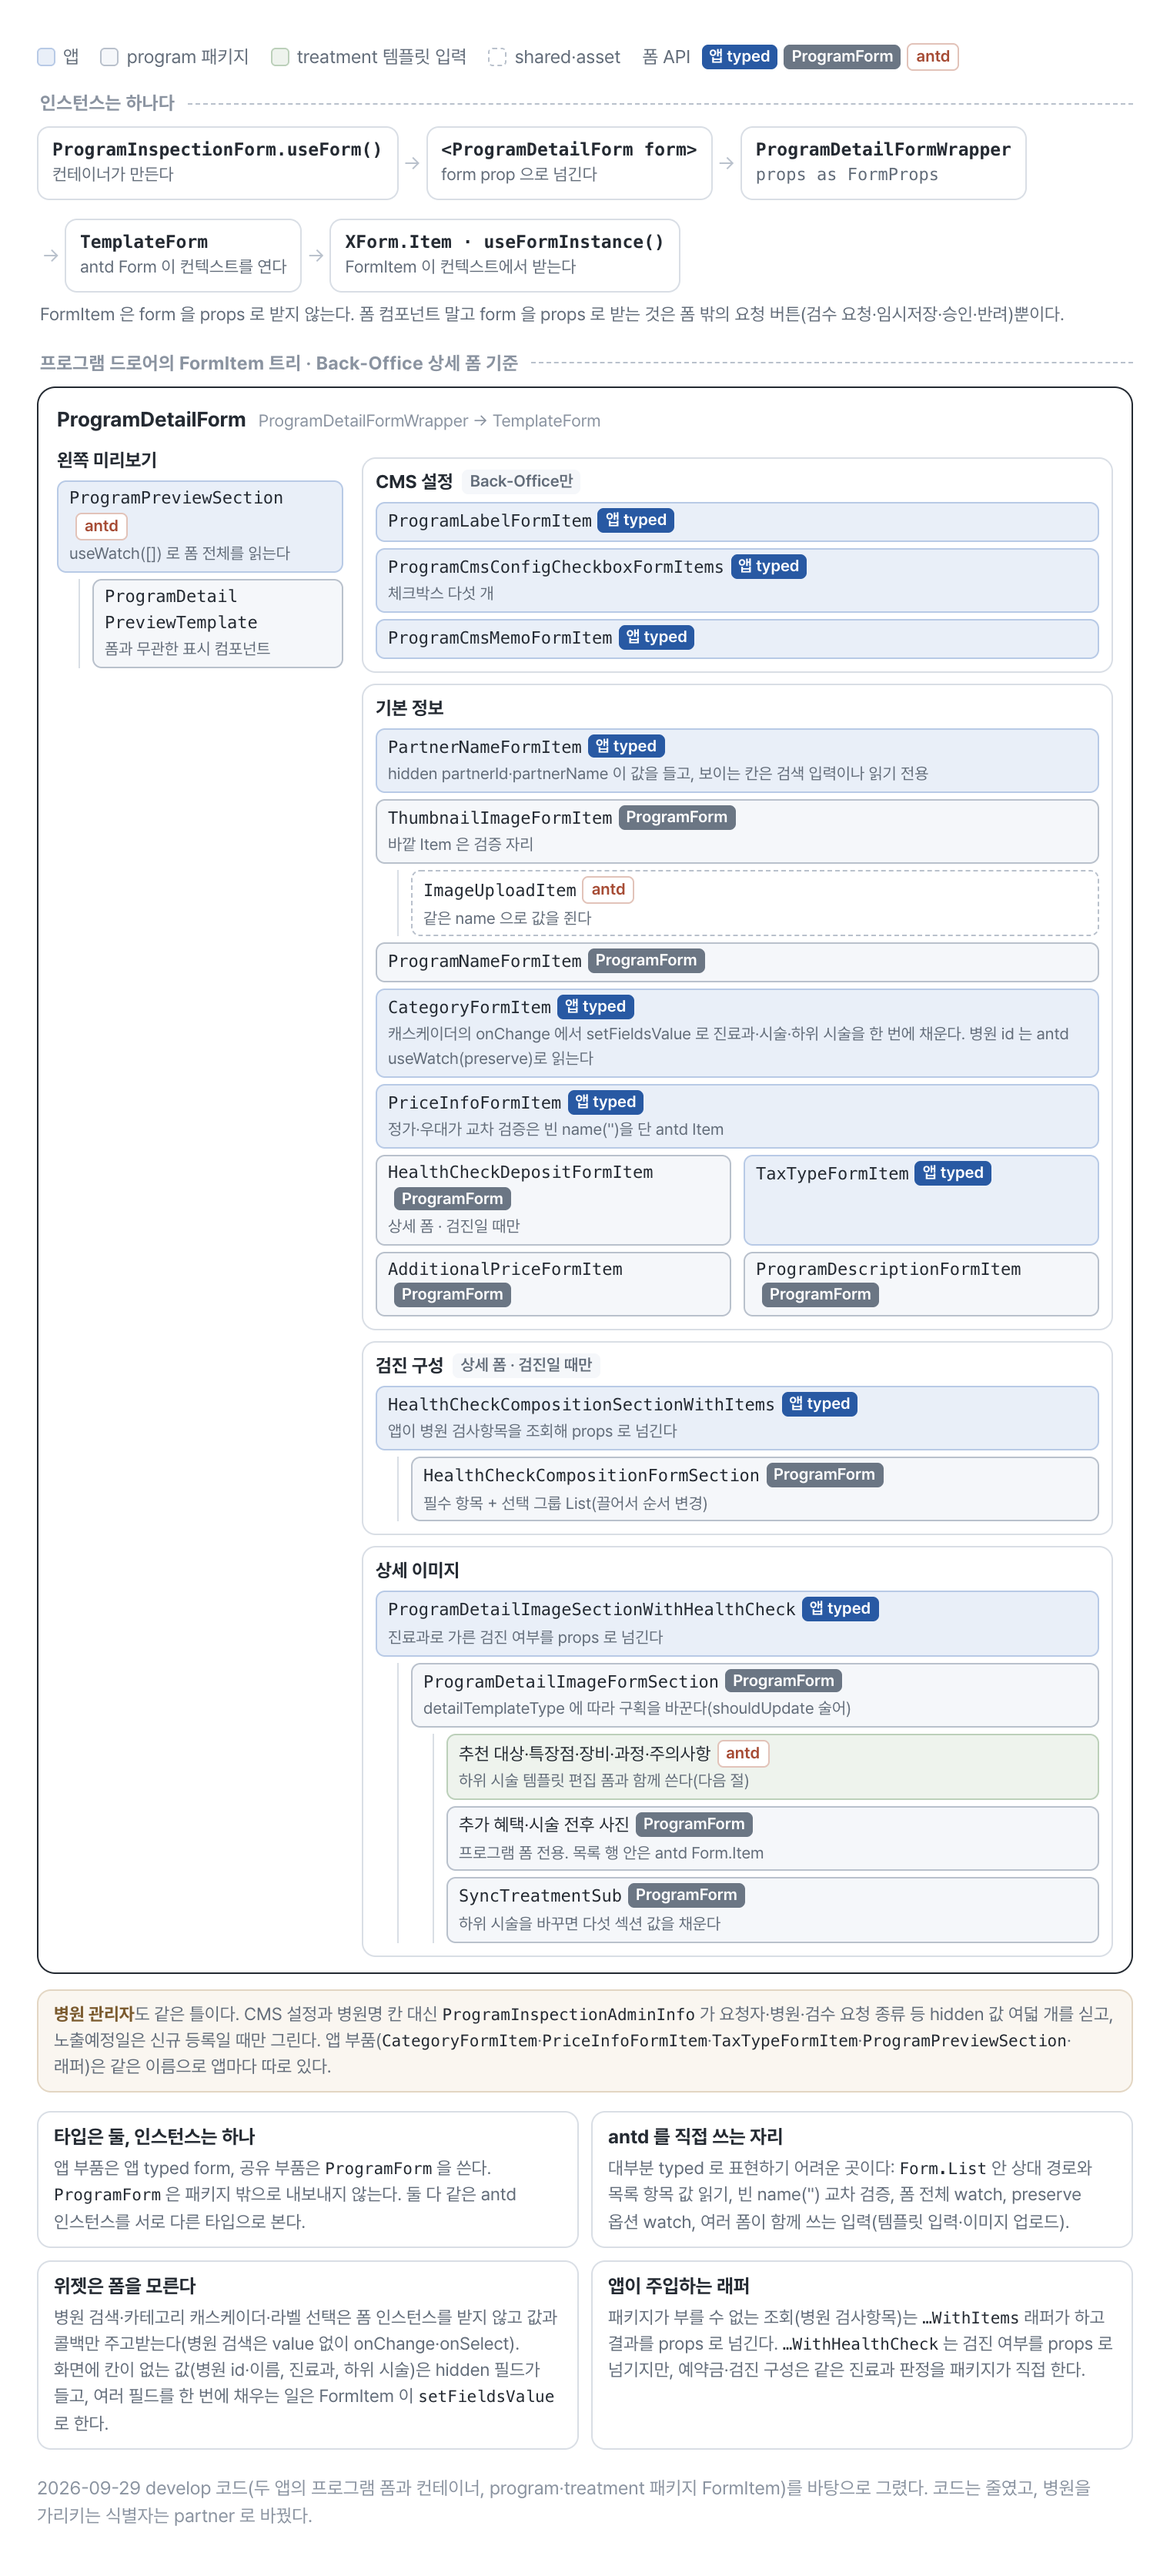
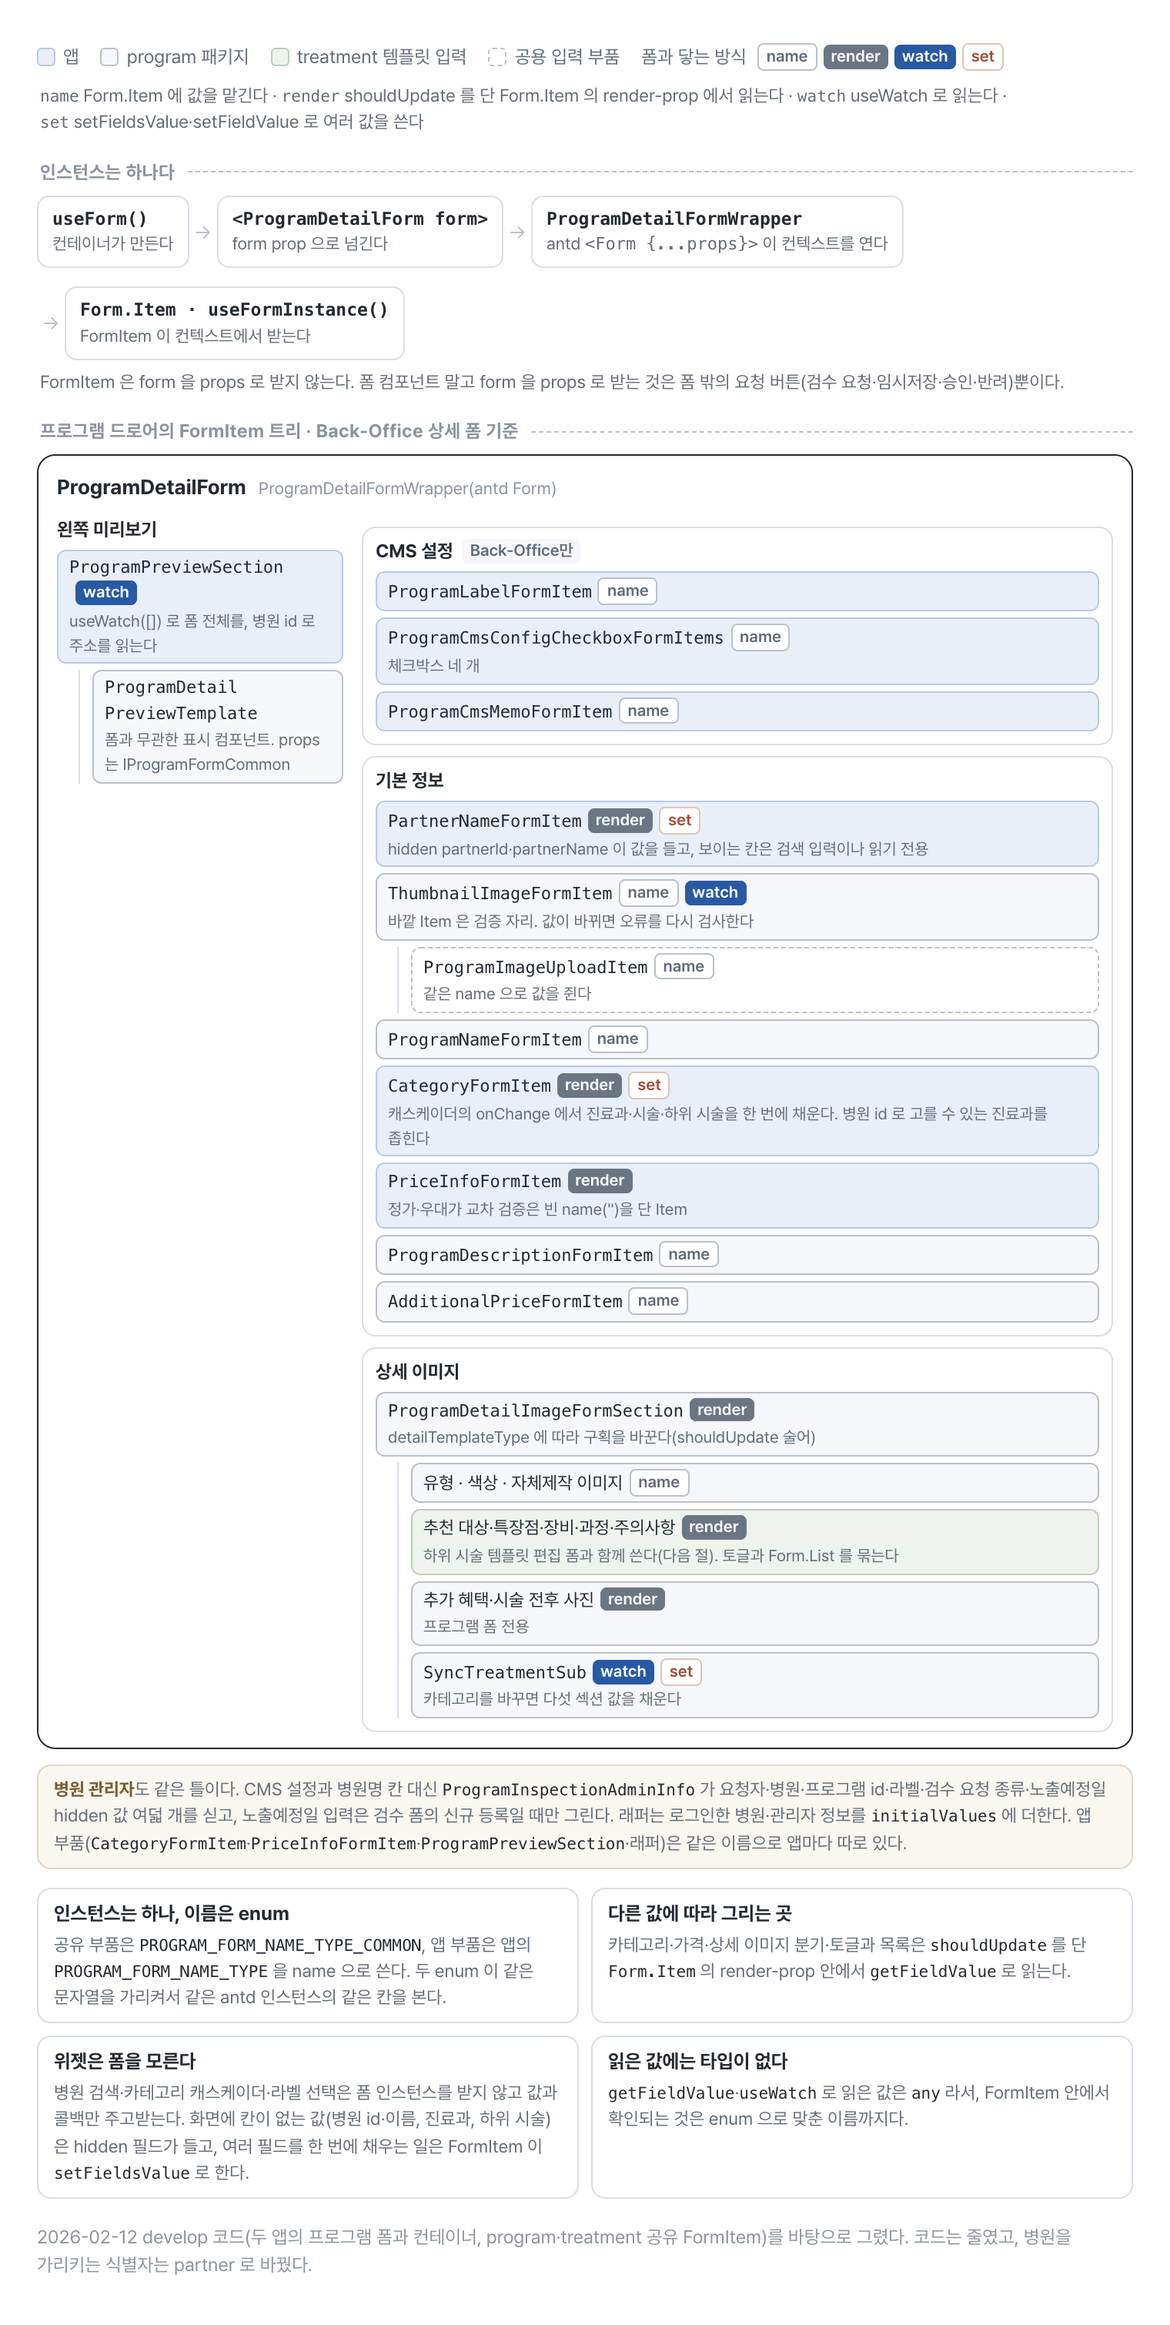
docs(blog): FormItem 설계도를 typed form 이전의 antd Form.Item 구조로 다시 그린다

Changed region(s): [[0.0309, 0.0, 0.9586, 0.996], [0.9276, 0.3113, 0.9586, 0.3424]]

diff --git a/blog/assets/figures/program-form/src/06-formitem-design.html b/blog/assets/figures/program-form/src/06-formitem-design.html
@@ -9,9 +9,10 @@
   .sw.tmpl { background: var(--sage-soft); border: 1px solid #bcd0ba; }
   .sw.shared { background: #fff; border: 1px dashed var(--line-strong); }
   .api { display: inline-block; font-size: 10.5px; font-weight: 600; padding: 0 5px; border-radius: 4px; margin-left: 4px; vertical-align: 1px; font-family: 'Pretendard', sans-serif; }
-  .api.t { background: var(--blue); color: #fff; }
-  .api.p { background: #6b7684; color: #fff; }
-  .api.a { background: #fff; color: var(--coral); border: 1px solid #e2c3b9; }
+  .api.nm { background: #fff; color: var(--sub); border: 1px solid var(--line-strong); }
+  .api.rd { background: #6b7684; color: #fff; }
+  .api.wt { background: var(--blue); color: #fff; }
+  .api.st { background: #fff; color: var(--coral); border: 1px solid #e2c3b9; }
   .zone { font-size: 12px; font-weight: 700; color: var(--faint); letter-spacing: 0.2px; margin: 0 0 6px 2px; display: flex; align-items: center; gap: 8px; }
   .zone::after { content: ''; flex: 1; border-top: 1px dashed var(--line-strong); }
   .flow { display: flex; flex-wrap: wrap; align-items: stretch; gap: 6px 0; margin-bottom: 14px; }
@@ -54,81 +55,70 @@
   <span><i class="sw lay-app"></i>앱</span>
   <span><i class="sw prog"></i>program 패키지</span>
   <span><i class="sw tmpl"></i>treatment 템플릿 입력</span>
-  <span><i class="sw shared"></i>shared·asset</span>
-  <span>폼 API <span class="api t">앱 typed</span><span class="api p">ProgramForm</span><span class="api a">antd</span></span>
+  <span><i class="sw shared"></i>공용 입력 부품</span>
+  <span>폼과 닿는 방식 <span class="api nm">name</span><span class="api rd">render</span><span class="api wt">watch</span><span class="api st">set</span></span>
 </div>
+<p class="flow-note" style="margin:-4px 0 14px 2px"><span class="nw"><code>name</code> Form.Item 에 값을 맡긴다</span> · <span class="nw"><code>render</code> shouldUpdate 를 단 Form.Item 의 render-prop 에서 읽는다</span> · <span class="nw"><code>watch</code> useWatch 로 읽는다</span> · <span class="nw"><code>set</code> setFieldsValue·setFieldValue 로 여러 값을 쓴다</span></p>
 
 <div class="zone">인스턴스는 하나다</div>
 <div class="flow">
-  <div class="st"><b>ProgramInspectionForm.useForm()</b>컨테이너가 만든다</div><div class="ar">→</div>
+  <div class="st"><b>useForm()</b>컨테이너가 만든다</div><div class="ar">→</div>
   <div class="st"><b>&lt;ProgramDetailForm form&gt;</b>form prop 으로 넘긴다</div><div class="ar">→</div>
-  <div class="st"><b>ProgramDetailFormWrapper</b><code>props as FormProps</code></div>
+  <div class="st"><b>ProgramDetailFormWrapper</b>antd <code>&lt;Form {...props}&gt;</code> 이 컨텍스트를 연다</div>
   <div class="br"></div><div class="ar">→</div>
-  <div class="st"><b>TemplateForm</b>antd Form 이 컨텍스트를 연다</div><div class="ar">→</div>
-  <div class="st"><b>XForm.Item · useFormInstance()</b>FormItem 이 컨텍스트에서 받는다</div>
+  <div class="st"><b>Form.Item · useFormInstance()</b>FormItem 이 컨텍스트에서 받는다</div>
 </div>
 <p class="flow-note">FormItem 은 form 을 props 로 받지 않는다. 폼 컴포넌트 말고 form 을 props 로 받는 것은 폼 밖의 요청 버튼(검수 요청·임시저장·승인·반려)뿐이다.</p>
 
 <div class="zone">프로그램 드로어의 FormItem 트리 · Back-Office 상세 폼 기준</div>
 <div class="drawer">
-  <div class="dh"><b>ProgramDetailForm</b><span>ProgramDetailFormWrapper → TemplateForm</span></div>
+  <div class="dh"><b>ProgramDetailForm</b><span>ProgramDetailFormWrapper(antd Form)</span></div>
   <div class="cols">
     <div>
       <div class="sec-h">왼쪽 미리보기</div>
-      <div class="n lay-app">ProgramPreviewSection<span class="api a">antd</span><span class="s">useWatch([]) 로 폼 전체를 읽는다</span></div>
-      <div class="kid"><div class="n prog">ProgramDetail<wbr>PreviewTemplate<span class="s">폼과 무관한 표시 컴포넌트</span></div></div>
+      <div class="n lay-app">ProgramPreviewSection<span class="api wt">watch</span><span class="s">useWatch([]) 로 폼 전체를, 병원 id 로 주소를 읽는다</span></div>
+      <div class="kid"><div class="n prog">ProgramDetail<wbr>PreviewTemplate<span class="s">폼과 무관한 표시 컴포넌트. props 는 IProgramFormCommon</span></div></div>
     </div>
     <div>
       <div class="sec">
         <div class="sec-h">CMS 설정 <span class="only">Back-Office만</span></div>
-        <div class="n lay-app">ProgramLabelFormItem<span class="api t">앱 typed</span></div>
-        <div class="n lay-app">ProgramCmsConfigCheckboxFormItems<span class="api t">앱 typed</span><span class="s">체크박스 다섯 개</span></div>
-        <div class="n lay-app">ProgramCmsMemoFormItem<span class="api t">앱 typed</span></div>
+        <div class="n lay-app">ProgramLabelFormItem<span class="api nm">name</span></div>
+        <div class="n lay-app">ProgramCmsConfigCheckboxFormItems<span class="api nm">name</span><span class="s">체크박스 네 개</span></div>
+        <div class="n lay-app">ProgramCmsMemoFormItem<span class="api nm">name</span></div>
       </div>
       <div class="sec">
         <div class="sec-h">기본 정보</div>
-        <div class="n lay-app">PartnerNameFormItem<span class="api t">앱 typed</span><span class="s">hidden partnerId·partnerName 이 값을 들고, 보이는 칸은 검색 입력이나 읽기 전용</span></div>
-        <div class="n prog">ThumbnailImageFormItem<span class="api p">ProgramForm</span><span class="s">바깥 Item 은 검증 자리</span></div>
-        <div class="kid"><div class="n shared">ImageUploadItem<span class="api a">antd</span><span class="s">같은 name 으로 값을 쥔다</span></div></div>
-        <div class="n prog">ProgramNameFormItem<span class="api p">ProgramForm</span></div>
-        <div class="n lay-app">CategoryFormItem<span class="api t">앱 typed</span><span class="s">캐스케이더의 onChange 에서 setFieldsValue 로 진료과·시술·하위 시술을 한 번에 채운다. 병원 id 는 antd useWatch(preserve)로 읽는다</span></div>
-        <div class="n lay-app">PriceInfoFormItem<span class="api t">앱 typed</span><span class="s">정가·우대가 교차 검증은 빈 name('')을 단 antd Item</span></div>
-        <div class="grid2">
-          <div class="n prog">HealthCheckDepositFormItem<span class="api p">ProgramForm</span><span class="s">상세 폼 · 검진일 때만</span></div>
-          <div class="n lay-app">TaxTypeFormItem<span class="api t">앱 typed</span></div>
-          <div class="n prog">AdditionalPriceFormItem<span class="api p">ProgramForm</span></div>
-          <div class="n prog">ProgramDescriptionFormItem<span class="api p">ProgramForm</span></div>
-        </div>
-      </div>
-      <div class="sec">
-        <div class="sec-h">검진 구성 <span class="only">상세 폼 · 검진일 때만</span></div>
-        <div class="n lay-app">HealthCheckCompositionSectionWithItems<span class="api t">앱 typed</span><span class="s">앱이 병원 검사항목을 조회해 props 로 넘긴다</span></div>
-        <div class="kid"><div class="n prog">HealthCheckCompositionFormSection<span class="api p">ProgramForm</span><span class="s">필수 항목 + 선택 그룹 List(끌어서 순서 변경)</span></div></div>
+        <div class="n lay-app">PartnerNameFormItem<span class="api rd">render</span><span class="api st">set</span><span class="s">hidden partnerId·partnerName 이 값을 들고, 보이는 칸은 검색 입력이나 읽기 전용</span></div>
+        <div class="n prog">ThumbnailImageFormItem<span class="api nm">name</span><span class="api wt">watch</span><span class="s">바깥 Item 은 검증 자리. 값이 바뀌면 오류를 다시 검사한다</span></div>
+        <div class="kid"><div class="n shared">ProgramImageUploadItem<span class="api nm">name</span><span class="s">같은 name 으로 값을 쥔다</span></div></div>
+        <div class="n prog">ProgramNameFormItem<span class="api nm">name</span></div>
+        <div class="n lay-app">CategoryFormItem<span class="api rd">render</span><span class="api st">set</span><span class="s">캐스케이더의 onChange 에서 진료과·시술·하위 시술을 한 번에 채운다. 병원 id 로 고를 수 있는 진료과를 좁힌다</span></div>
+        <div class="n lay-app">PriceInfoFormItem<span class="api rd">render</span><span class="s">정가·우대가 교차 검증은 빈 name('')을 단 Item</span></div>
+        <div class="n prog">ProgramDescriptionFormItem<span class="api nm">name</span></div>
+        <div class="n prog">AdditionalPriceFormItem<span class="api nm">name</span></div>
       </div>
       <div class="sec">
         <div class="sec-h">상세 이미지</div>
-        <div class="n lay-app">ProgramDetailImageSectionWithHealthCheck<span class="api t">앱 typed</span><span class="s">진료과로 가른 검진 여부를 props 로 넘긴다</span></div>
+        <div class="n prog">ProgramDetailImageFormSection<span class="api rd">render</span><span class="s">detailTemplateType 에 따라 구획을 바꾼다(shouldUpdate 술어)</span></div>
         <div class="kid">
-          <div class="n prog">ProgramDetailImageFormSection<span class="api p">ProgramForm</span><span class="s">detailTemplateType 에 따라 구획을 바꾼다(shouldUpdate 술어)</span></div>
-          <div class="kid">
-            <div class="n tmpl"><span class="ko">추천 대상·특장점·장비·과정·주의사항</span><span class="api a">antd</span><span class="s">하위 시술 템플릿 편집 폼과 함께 쓴다(다음 절)</span></div>
-            <div class="n prog"><span class="ko">추가 혜택·시술 전후 사진</span><span class="api p">ProgramForm</span><span class="s">프로그램 폼 전용. 목록 행 안은 antd Form.Item</span></div>
-            <div class="n prog">SyncTreatmentSub<span class="api p">ProgramForm</span><span class="s">하위 시술을 바꾸면 다섯 섹션 값을 채운다</span></div>
-          </div>
+          <div class="n prog"><span class="ko">유형 · 색상 · 자체제작 이미지</span><span class="api nm">name</span></div>
+          <div class="n tmpl"><span class="ko">추천 대상·특장점·장비·과정·주의사항</span><span class="api rd">render</span><span class="s">하위 시술 템플릿 편집 폼과 함께 쓴다(다음 절). 토글과 Form.List 를 묶는다</span></div>
+          <div class="n prog"><span class="ko">추가 혜택·시술 전후 사진</span><span class="api rd">render</span><span class="s">프로그램 폼 전용</span></div>
+          <div class="n prog">SyncTreatmentSub<span class="api wt">watch</span><span class="api st">set</span><span class="s">카테고리를 바꾸면 다섯 섹션 값을 채운다</span></div>
         </div>
       </div>
     </div>
   </div>
 </div>
 
-<div class="pa"><b>병원 관리자</b>도 같은 틀이다. CMS 설정과 병원명 칸 대신 <code>ProgramInspectionAdminInfo</code> 가 요청자·병원·검수 요청 종류 등 hidden 값 여덟 개를 싣고, 노출예정일은 신규 등록일 때만 그린다. 앱 부품(<code>CategoryFormItem</code>·<code>PriceInfoFormItem</code>·<code>TaxTypeFormItem</code>·<code>ProgramPreviewSection</code>·<span class="nw">래퍼)은</span> 같은 이름으로 앱마다 따로 있다.</div>
+<div class="pa"><b>병원 관리자</b>도 같은 틀이다. CMS 설정과 병원명 칸 대신 <code>ProgramInspectionAdminInfo</code> 가 요청자·병원·프로그램 id·라벨·검수 요청 종류·노출예정일 hidden 값 여덟 개를 싣고, 노출예정일 입력은 검수 폼의 신규 등록일 때만 그린다. 래퍼는 로그인한 병원·관리자 정보를 <code>initialValues</code> 에 더한다. 앱 부품(<code>CategoryFormItem</code>·<code>PriceInfoFormItem</code>·<code>ProgramPreviewSection</code>·<span class="nw">래퍼)은</span> 같은 이름으로 앱마다 따로 있다.</div>
 
 <div class="rules">
-  <div class="rule"><b>타입은 둘, 인스턴스는 하나</b>앱 부품은 앱 typed form, 공유 부품은 <code>ProgramForm</code> 을 쓴다. <code>ProgramForm</code> 은 패키지 밖으로 내보내지 않는다. 둘 다 같은 antd 인스턴스를 서로 다른 타입으로 본다.</div>
-  <div class="rule"><b>antd 를 직접 쓰는 자리</b>대부분 typed 로 표현하기 어려운 곳이다: <code>Form.List</code> 안 상대 경로와 목록 항목 값 읽기, 빈 name('') 교차 검증, 폼 전체 watch, preserve 옵션 watch, 여러 폼이 함께 쓰는 입력(템플릿 입력·이미지 업로드).</div>
-  <div class="rule"><b>위젯은 폼을 모른다</b>병원 검색·카테고리 캐스케이더·라벨 선택은 폼 인스턴스를 받지 않고 값과 콜백만 주고받는다(병원 검색은 value 없이 onChange·onSelect). 화면에 칸이 없는 값(병원 id·이름, 진료과, 하위 시술)은 hidden 필드가 들고, 여러 필드를 한 번에 채우는 일은 FormItem 이 <code>setFieldsValue</code> 로 한다.</div>
-  <div class="rule"><b>앱이 주입하는 래퍼</b>패키지가 부를 수 없는 조회(병원 검사항목)는 <code class="nw">…WithItems</code> 래퍼가 하고 결과를 props 로 넘긴다. <code class="nw">…WithHealthCheck</code> 는 검진 여부를 props 로 넘기지만, 예약금·검진 구성은 같은 진료과 판정을 패키지가 직접 한다.</div>
+  <div class="rule"><b>인스턴스는 하나, 이름은 enum</b>공유 부품은 <code>PROGRAM_FORM_NAME_TYPE_COMMON</code>, 앱 부품은 앱의 <code>PROGRAM_FORM_NAME_TYPE</code> 을 name 으로 쓴다. 두 enum 이 같은 문자열을 가리켜서 같은 antd 인스턴스의 같은 칸을 본다.</div>
+  <div class="rule"><b>다른 값에 따라 그리는 곳</b>카테고리·가격·상세 이미지 분기·토글과 목록은 <code>shouldUpdate</code> 를 단 <code>Form.Item</code> 의 render-prop 안에서 <code>getFieldValue</code> 로 읽는다.</div>
+  <div class="rule"><b>위젯은 폼을 모른다</b>병원 검색·카테고리 캐스케이더·라벨 선택은 폼 인스턴스를 받지 않고 값과 콜백만 주고받는다. 화면에 칸이 없는 값(병원 id·이름, 진료과, 하위 시술)은 hidden 필드가 들고, 여러 필드를 한 번에 채우는 일은 FormItem 이 <code>setFieldsValue</code> 로 한다.</div>
+  <div class="rule"><b>읽은 값에는 타입이 없다</b><code>getFieldValue</code>·<code>useWatch</code> 로 읽은 값은 <code>any</code> 라서, FormItem 안에서 확인되는 것은 enum 으로 맞춘 이름까지다.</div>
 </div>
 
-<p class="foot">2026-09-29 develop 코드(두 앱의 프로그램 폼과 컨테이너, program·treatment 패키지 FormItem)를 바탕으로 그렸다. 코드는 줄였고, 병원을 가리키는 식별자는 partner 로 바꿨다.</p>
+<p class="foot">2026-02-12 develop 코드(두 앱의 프로그램 폼과 컨테이너, program·treatment 공유 FormItem)를 바탕으로 그렸다. 코드는 줄였고, 병원을 가리키는 식별자는 partner 로 바꿨다.</p>
 </body></html>
